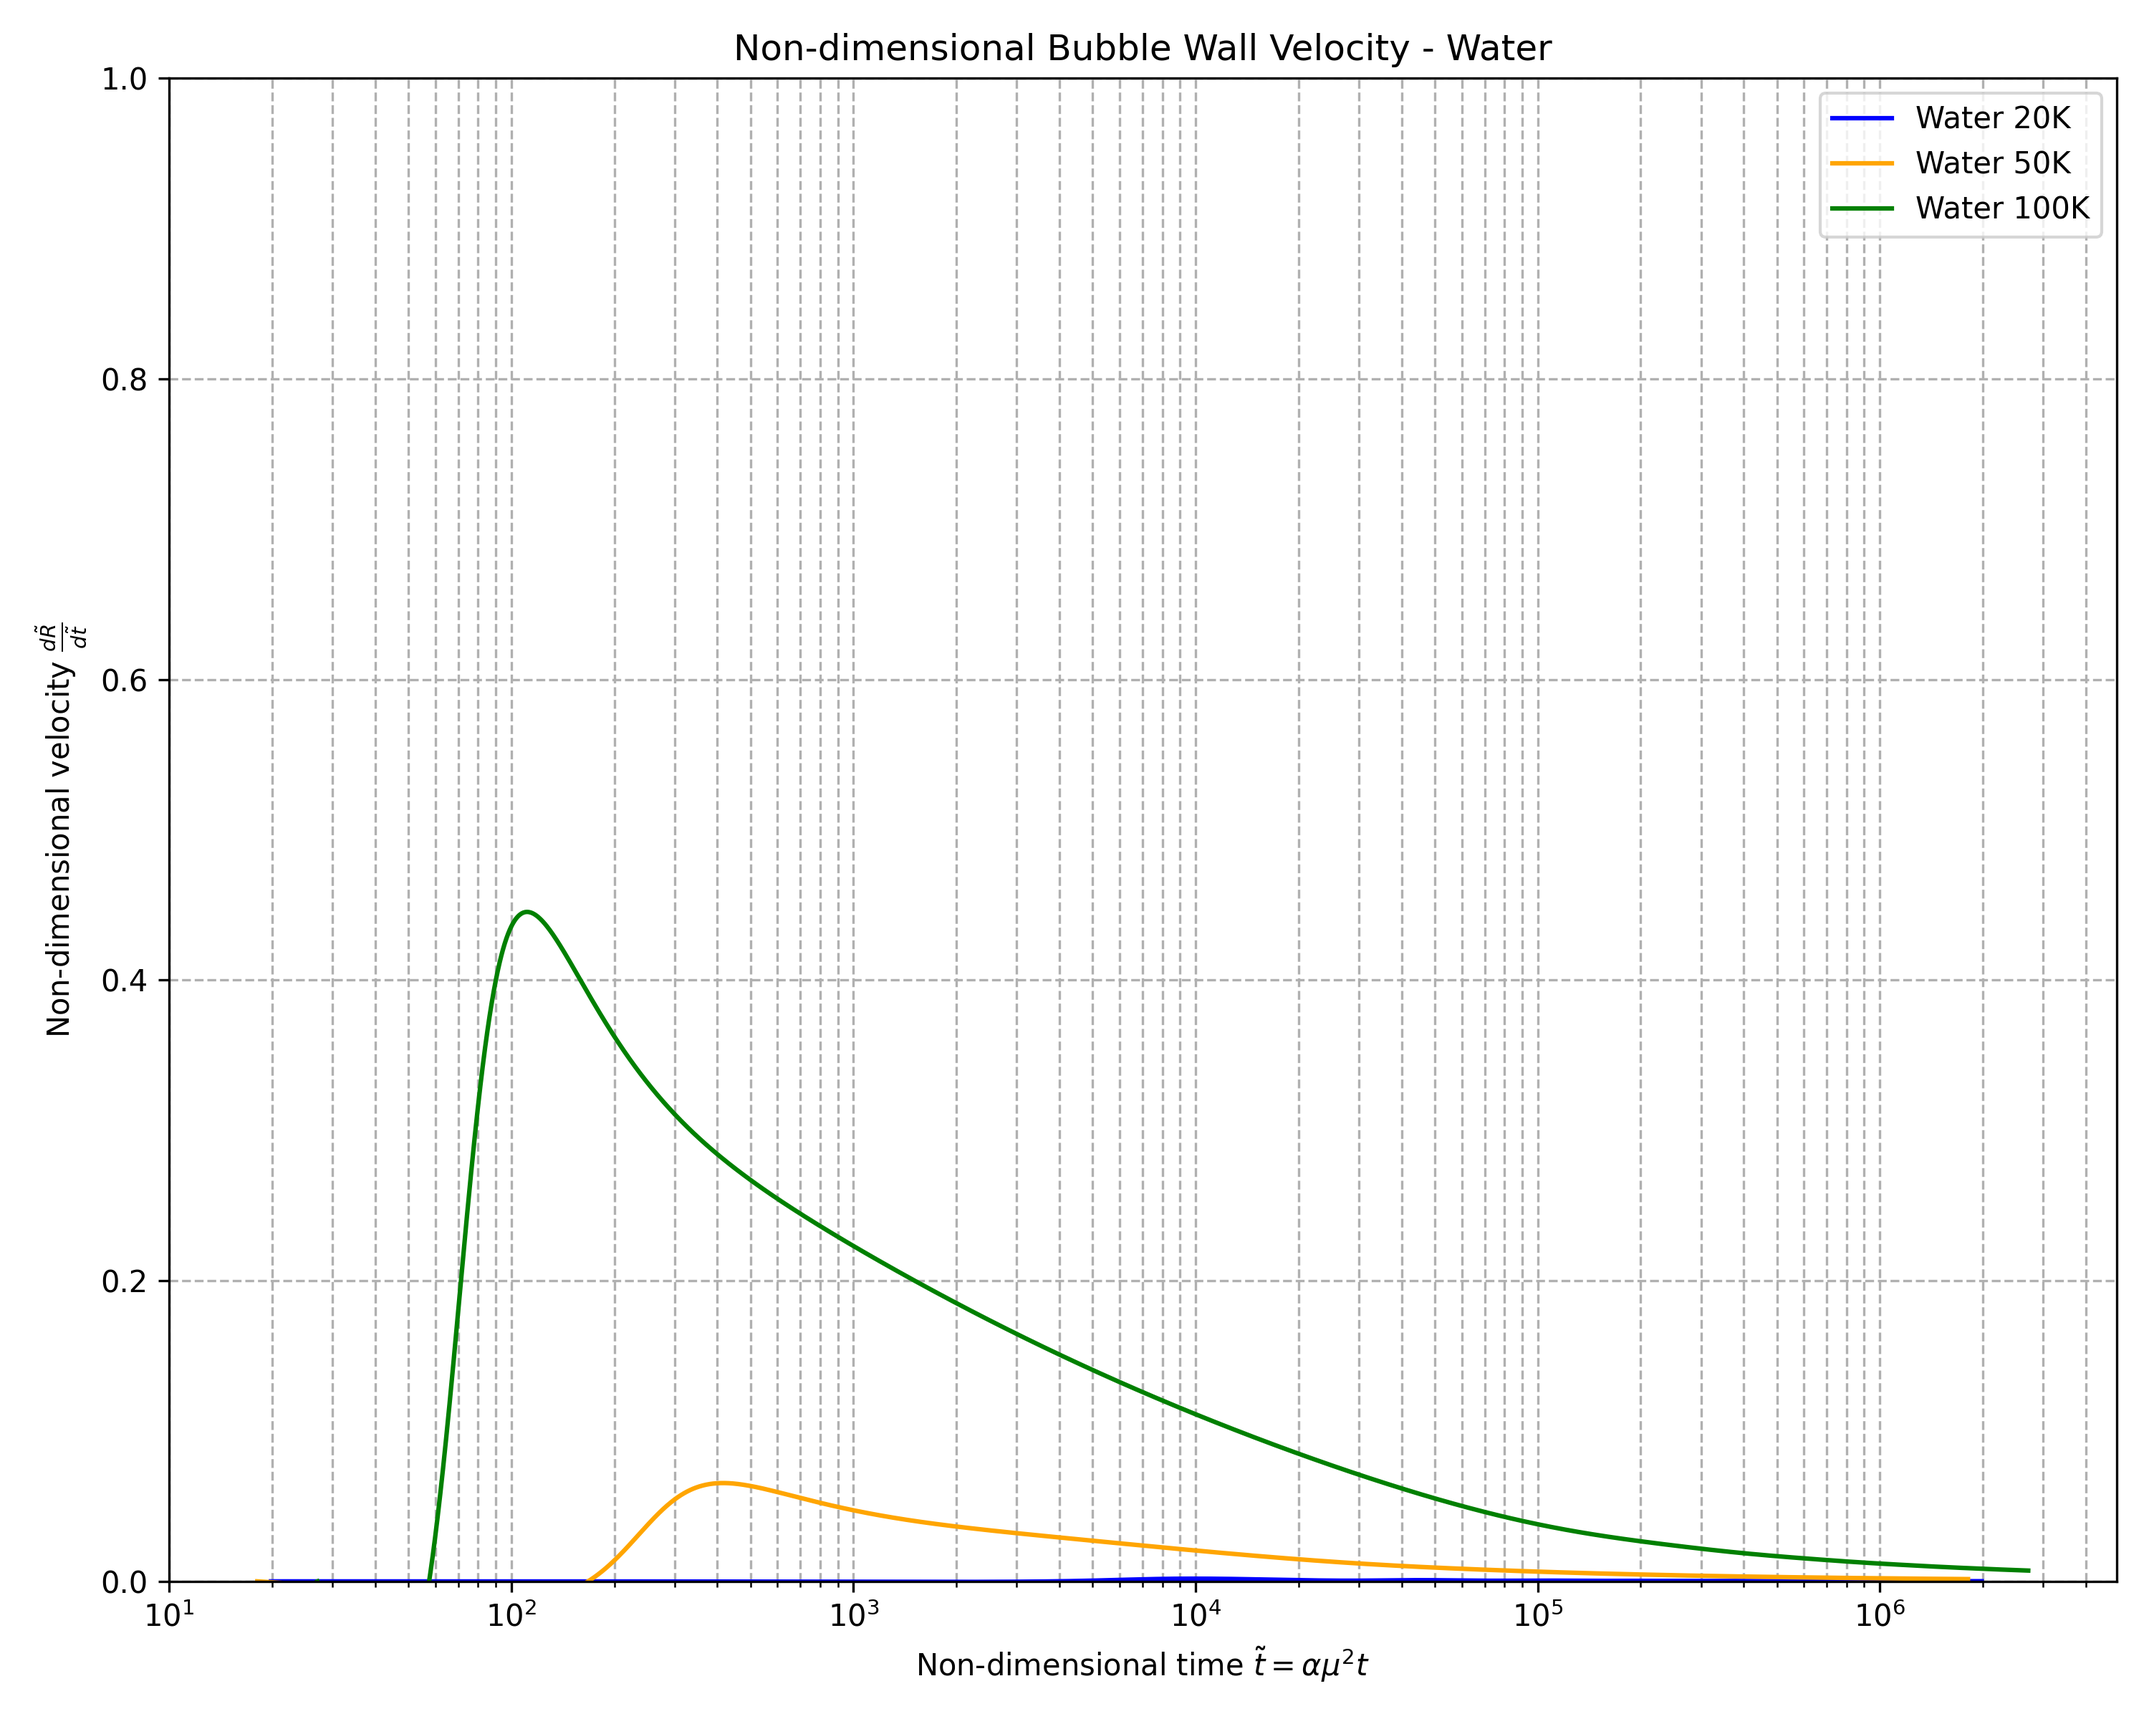
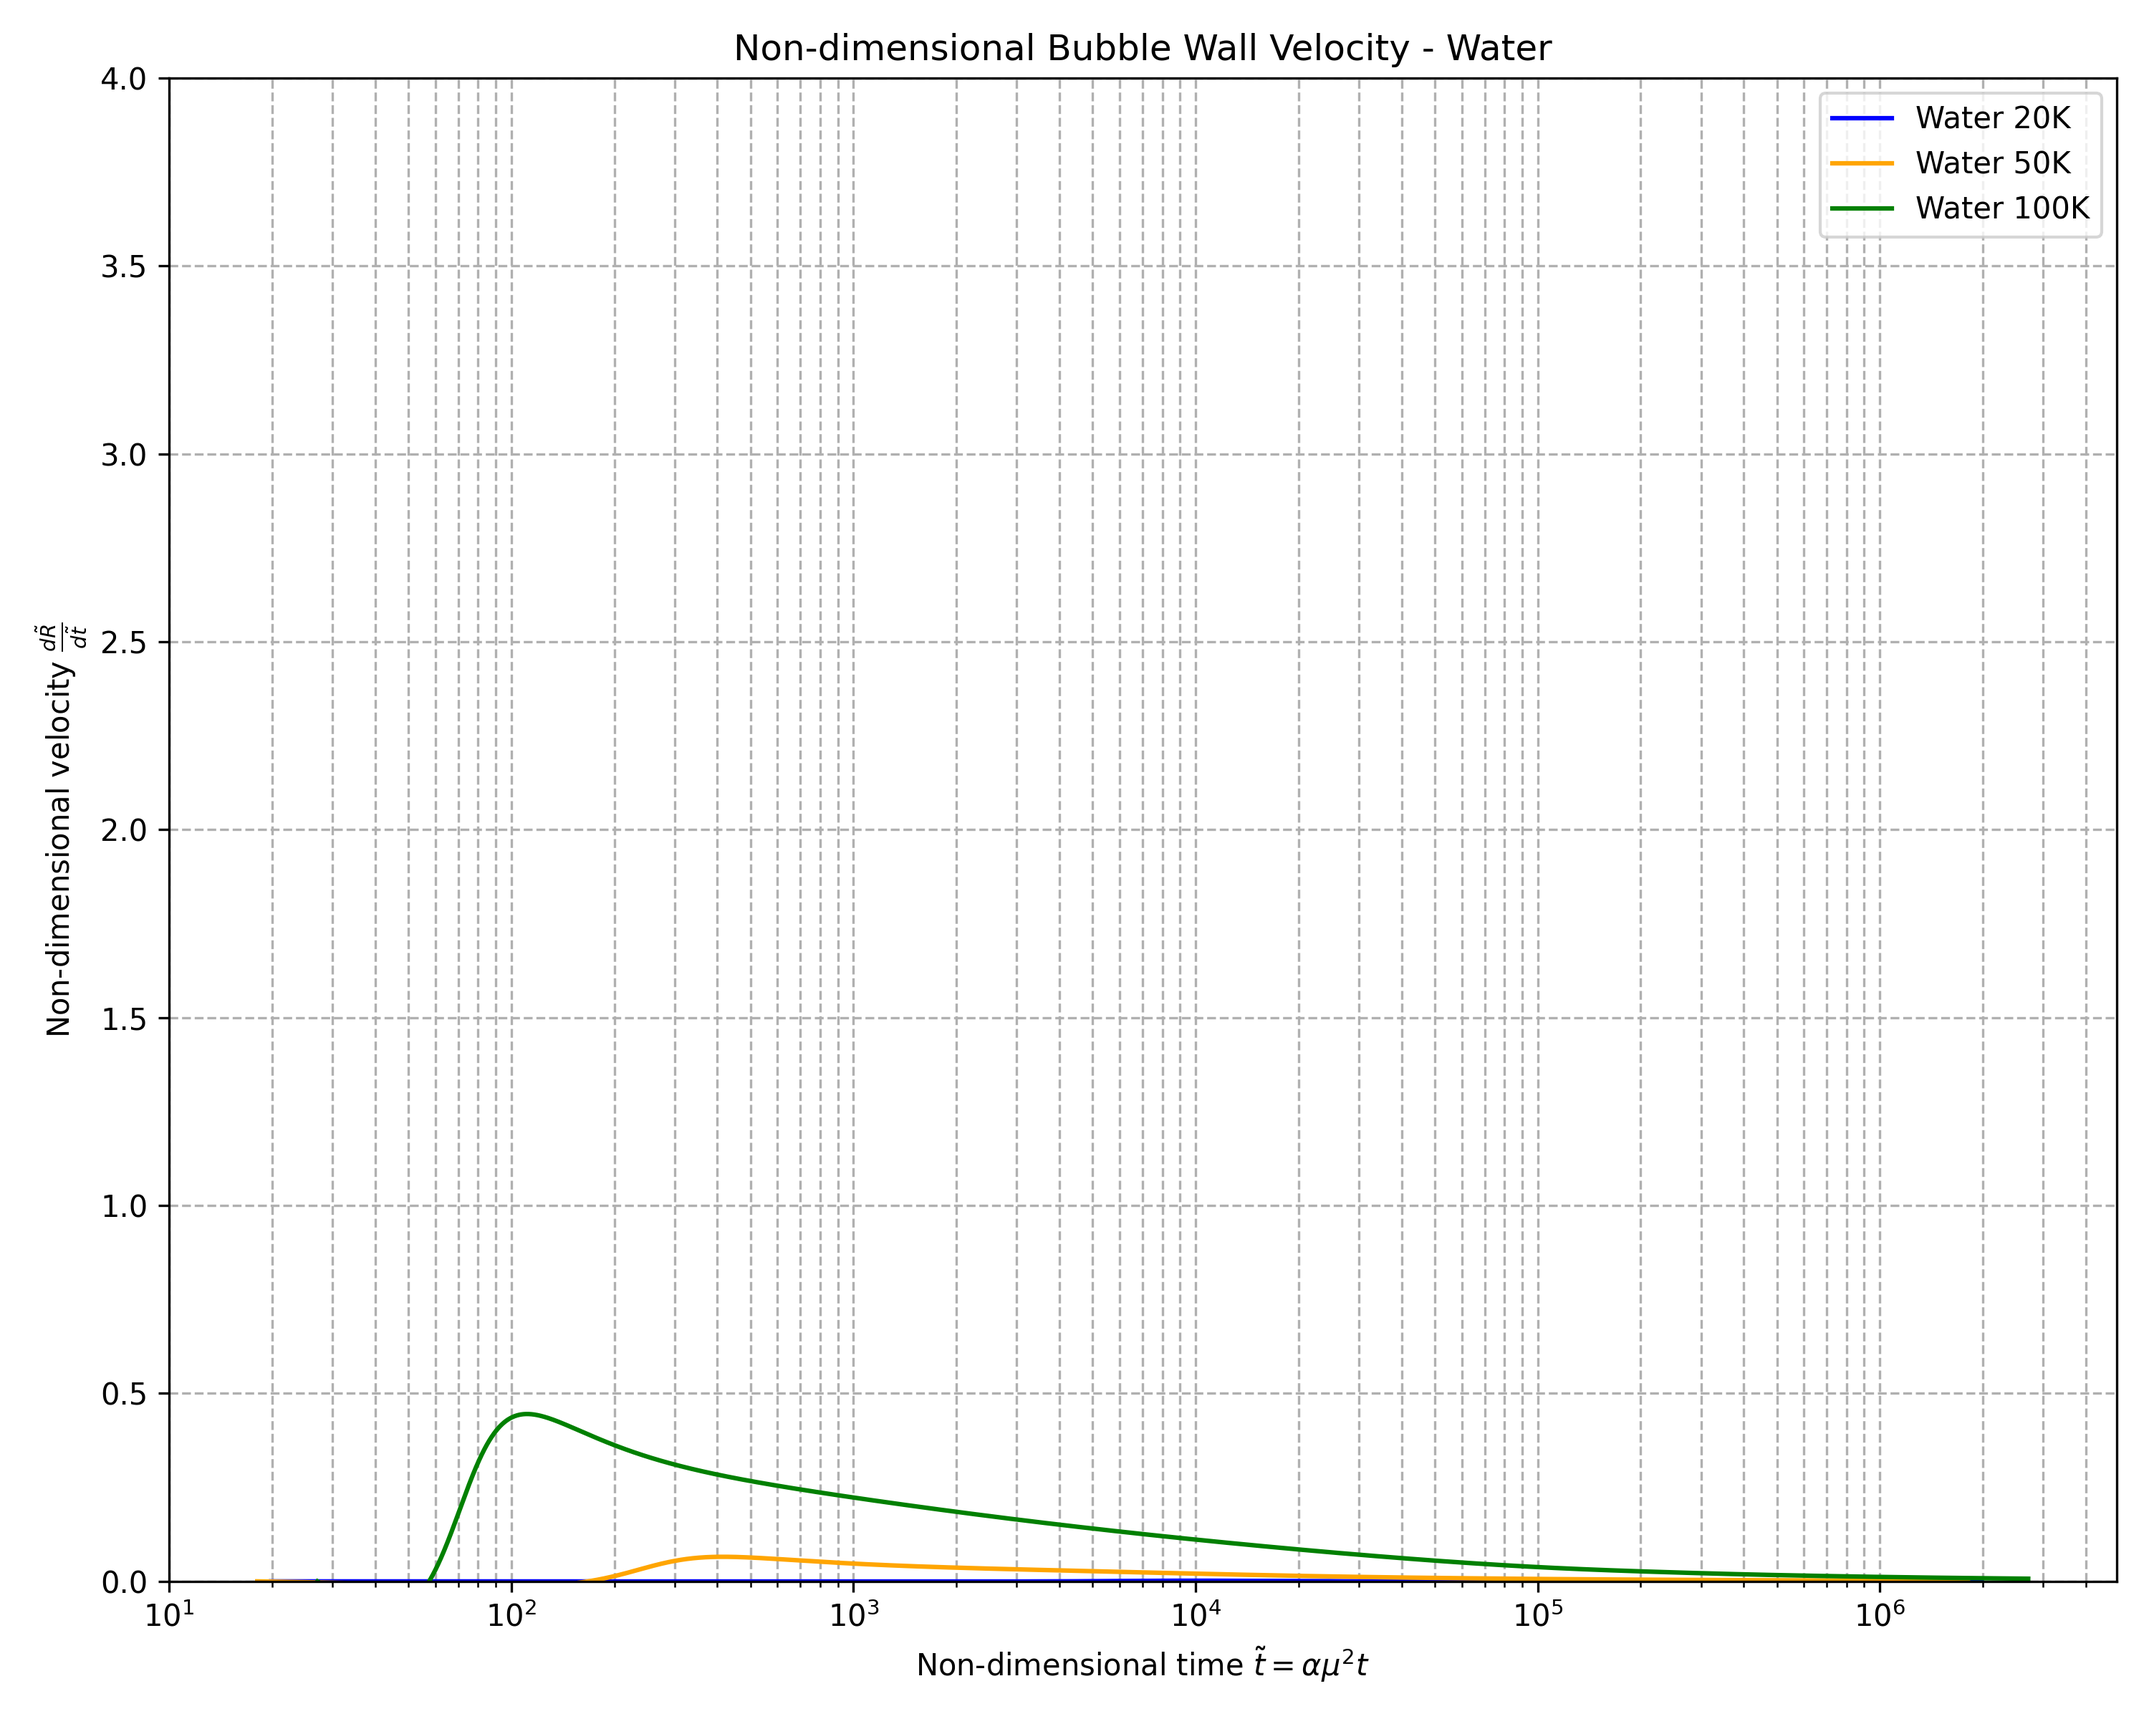
final w fixed axes

diff --git a/final.py b/final.py
@@ -349,7 +349,7 @@ def run_simulation_and_plot(selected_fluids=['water']):
         # Velocity plots
         plt.figure(non_dim_velocity_figs[fluid_type].number)
         plt.xscale('log')
-        plt.ylim(0, 1.0)  # Based on expected maximum non-dimensional velocity
+        plt.ylim(0, 4.0)  # Based on expected maximum non-dimensional velocity
         plt.xlabel('Non-dimensional time $\\tilde{t} = \\alpha \\mu^2 t$')
         plt.ylabel('Non-dimensional velocity $\\frac{d\\tilde{R}}{d\\tilde{t}}$')
         plt.title(f'Non-dimensional Bubble Wall Velocity - {fluid_type.capitalize()}')
